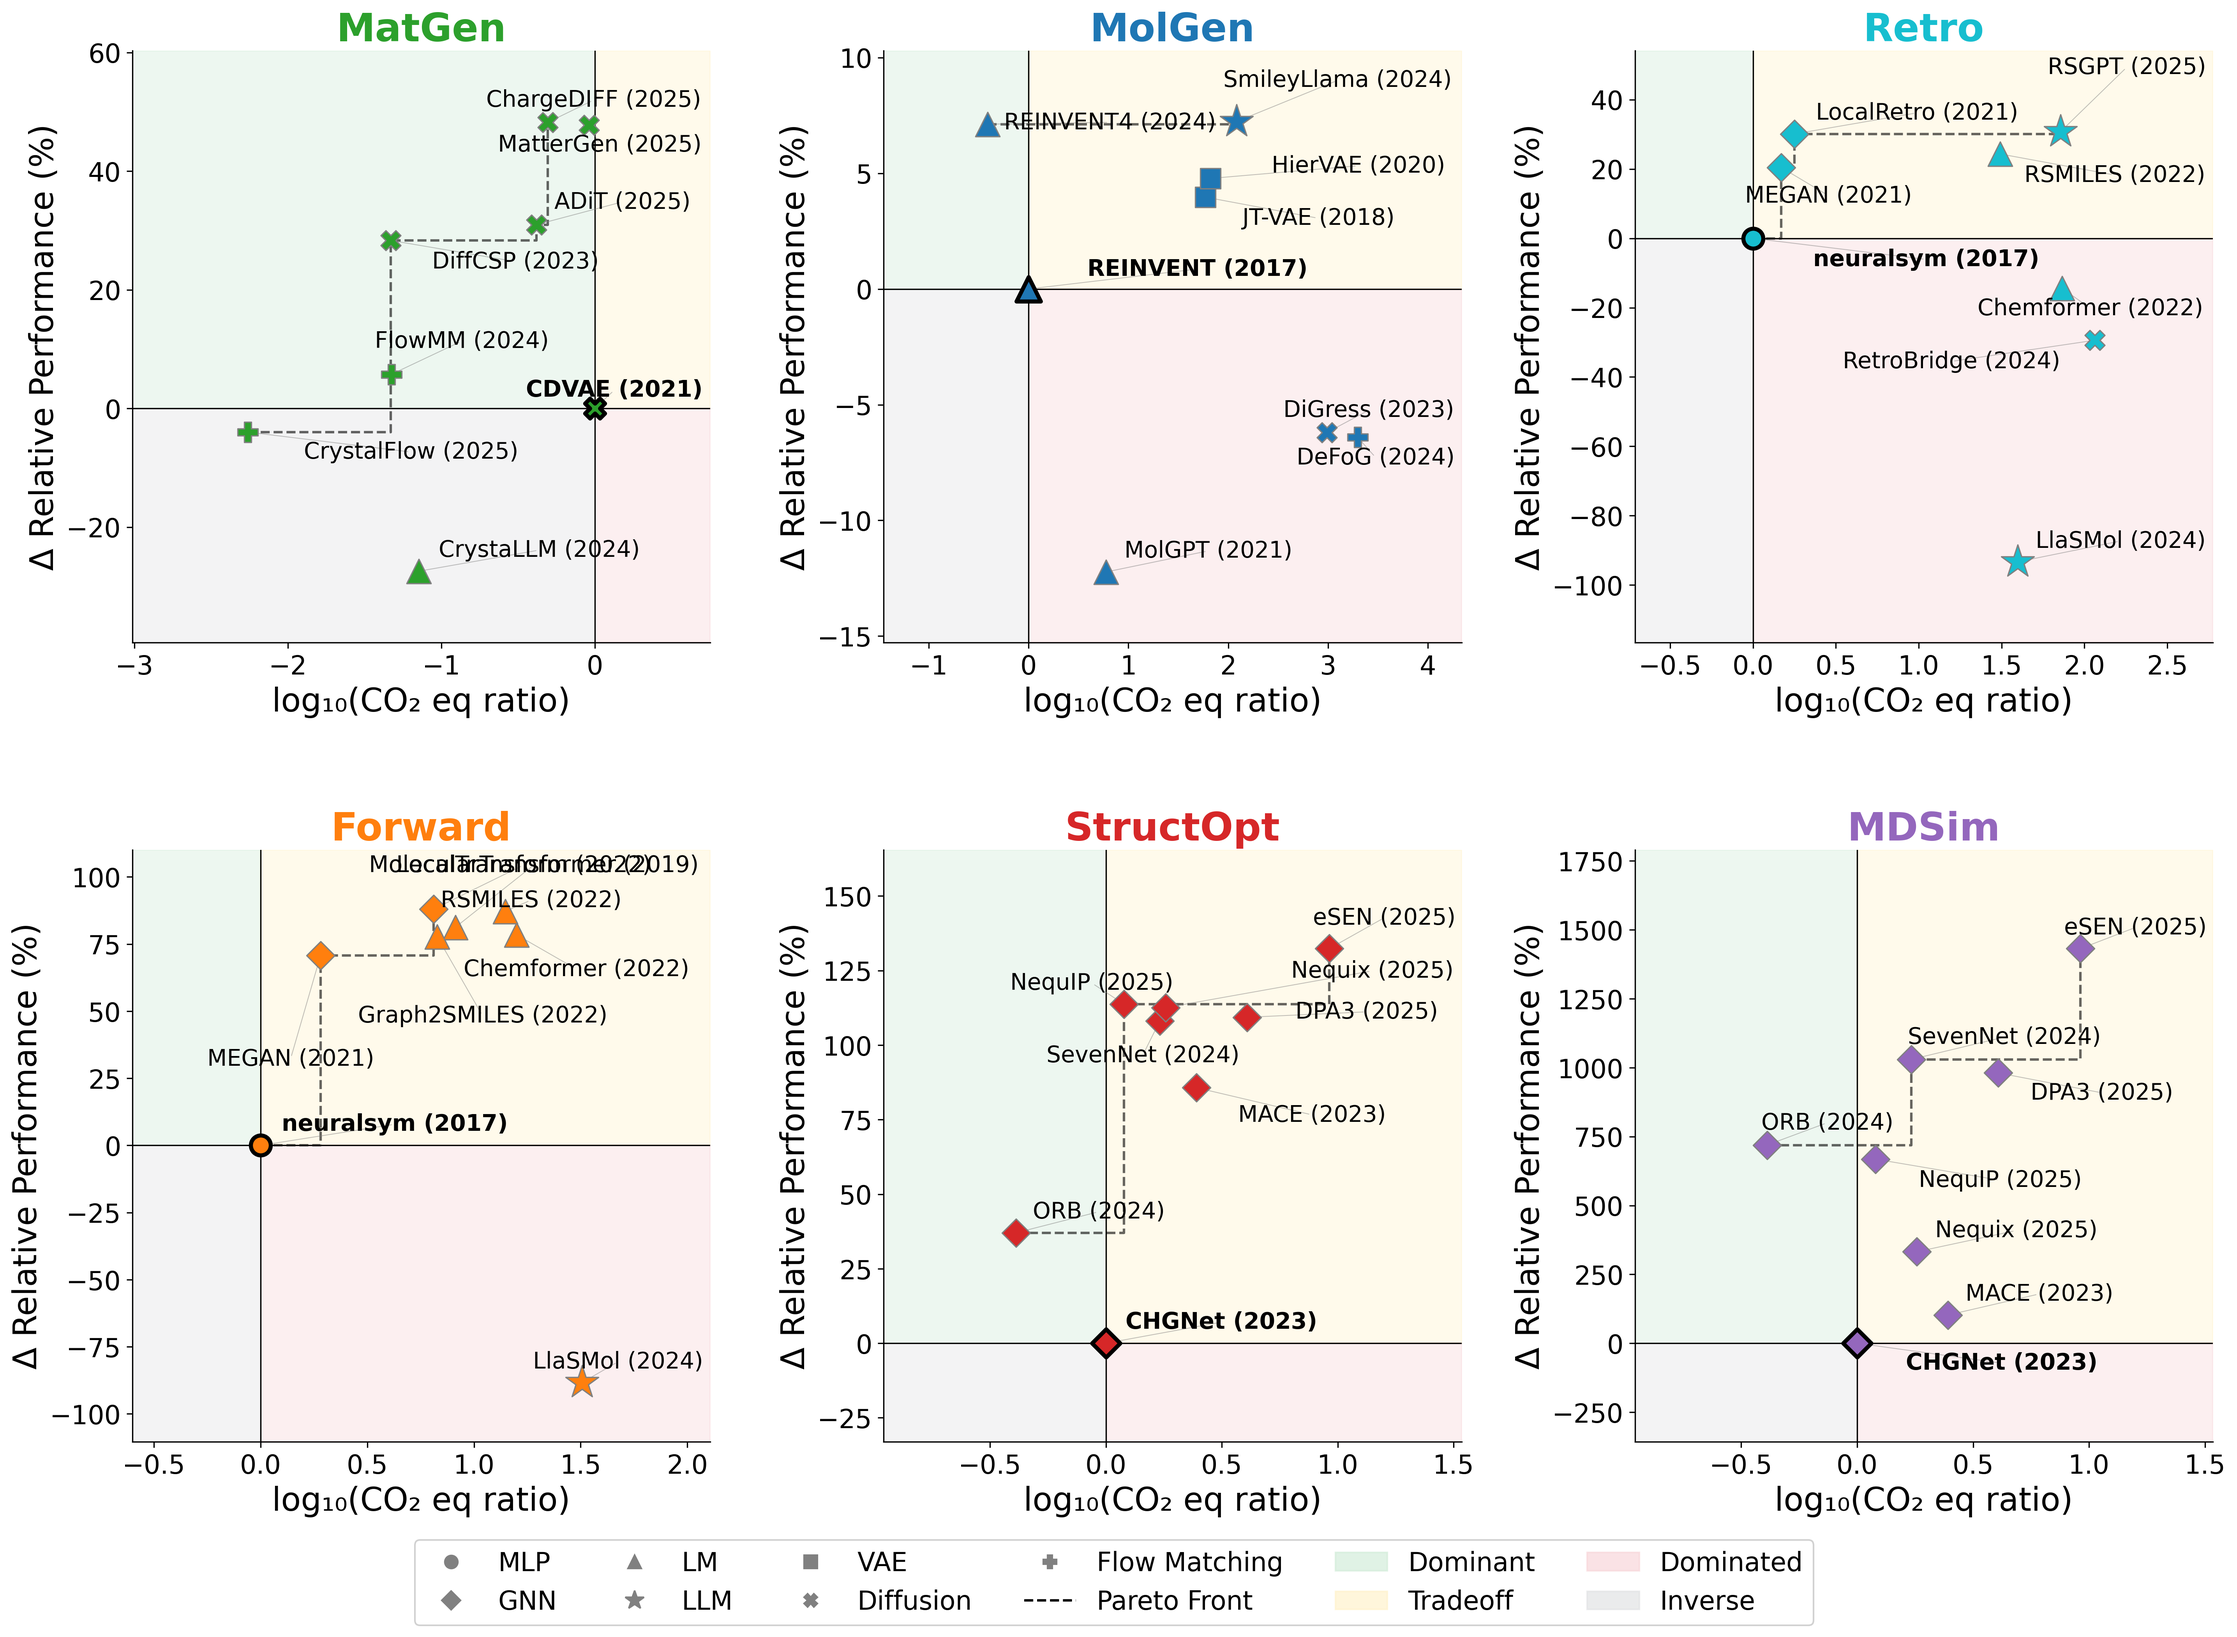
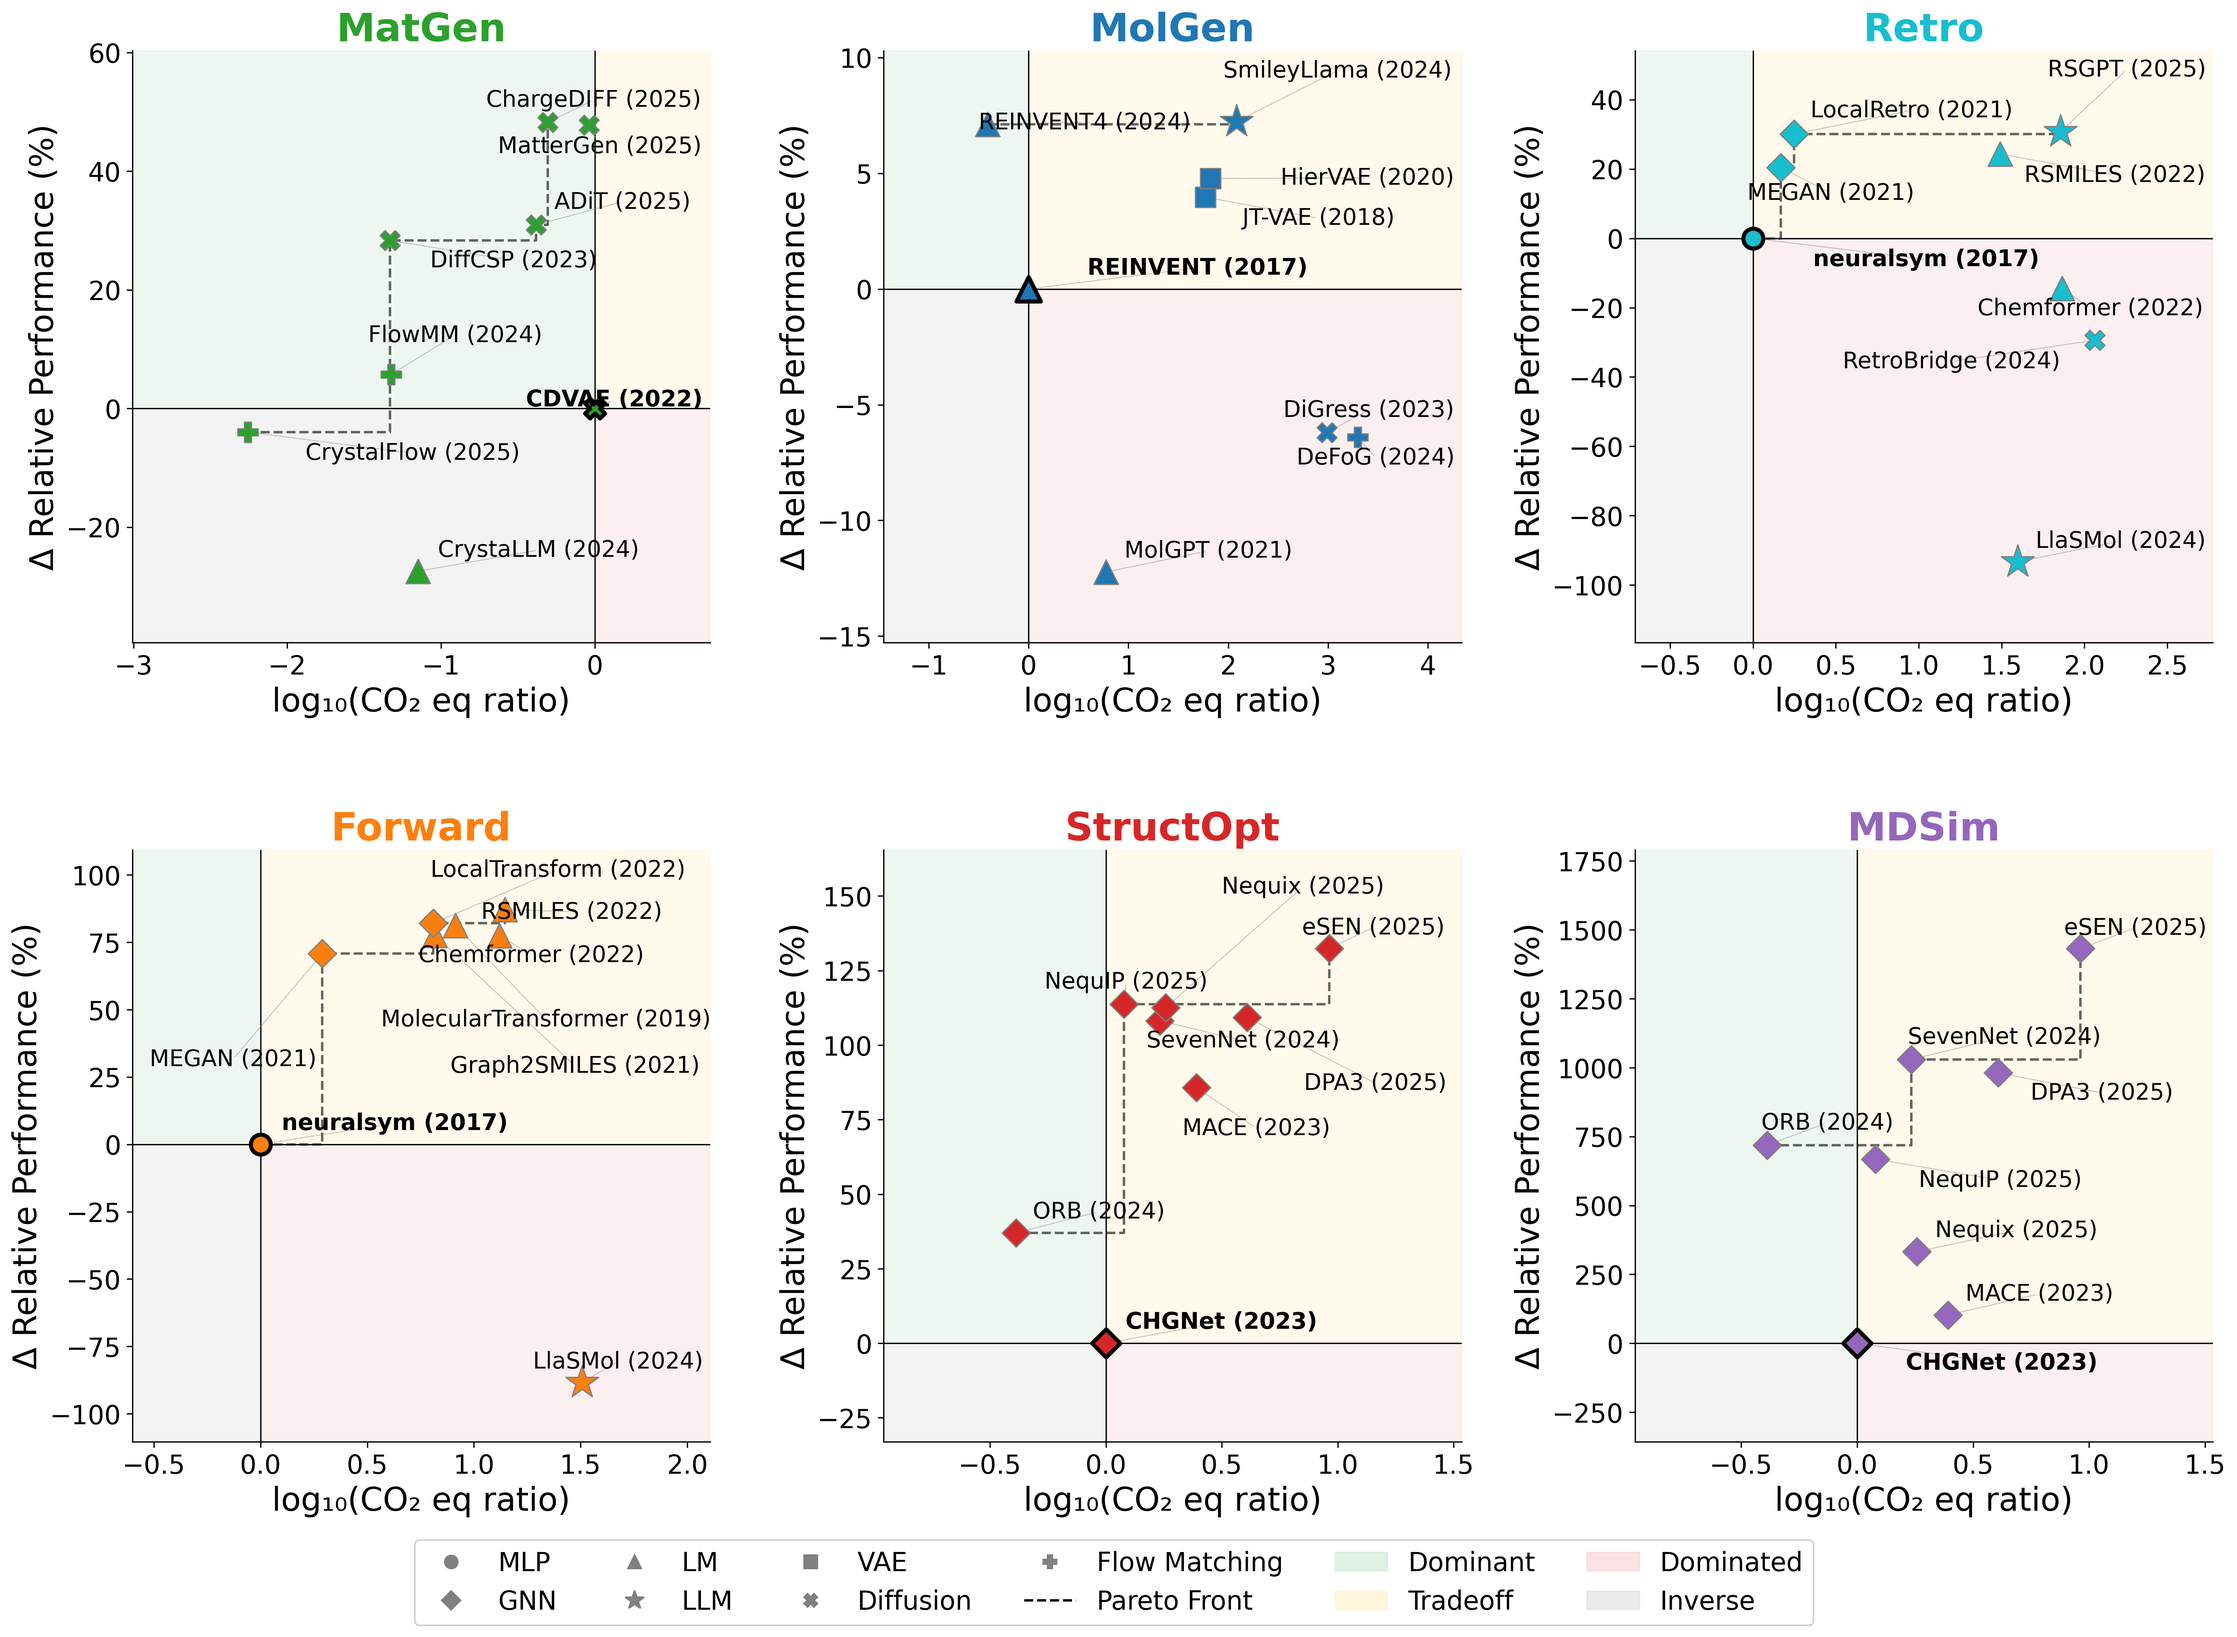
Fig 5: switch to CO2_per_exp and inference_time_per_exp; regenerate all figures

diff --git a/analysis/plot_figures.py b/analysis/plot_figures.py
@@ -466,7 +466,7 @@ def plot_fig5(df):
         for task, grp in df.groupby('task'):
             c = TASK_COLORS[task]
             for _, row in grp.iterrows():
-                xv, yv = row[xcol], row['CO2_per_job']
+                xv, yv = row[xcol], row['CO2_per_exp']
                 if pd.isna(xv) or pd.isna(yv) or xv <= 0 or yv <= 0:
                     continue
                 lx, ly = np.log10(xv), np.log10(yv)
@@ -489,7 +489,7 @@ def plot_fig5(df):
                           bbox=dict(boxstyle='round', facecolor='lightyellow', alpha=0.8))
 
         panel_ax.set_xlabel(xlabel, fontsize=20)
-        panel_ax.set_ylabel('log₁₀(CO₂/job)', fontsize=20)
+        panel_ax.set_ylabel('log₁₀(CO₂/exp)', fontsize=20)
         panel_ax.tick_params(labelsize=16)
         panel_ax.spines['top'].set_visible(False)
         panel_ax.spines['right'].set_visible(False)
